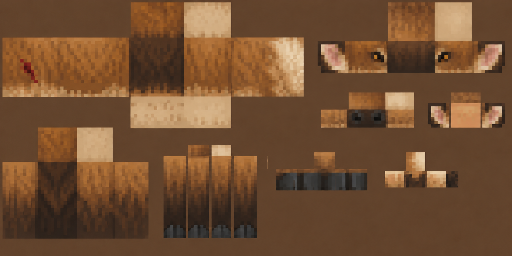
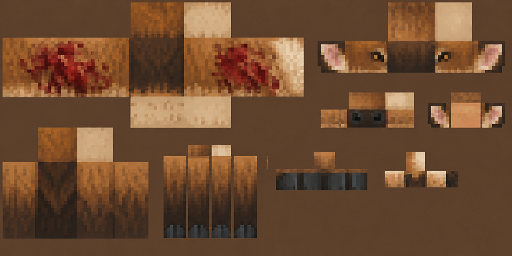
Make the crash wound visible and correct fan-room native bounds
Paint a clear abrasion on both elk flanks, switch the persistent wound at actual impact and repair earlier saved post-crash bodies. Extend the real crash/persistence regression without changing personal striker credit. Use native Vec3 room bounds for ladder construction and saved repair.

Changed region(s): [[0.0312, 0.1562, 0.2188, 0.375], [0.4062, 0.1562, 0.5625, 0.375]]

diff --git a/src/main/java/io/github/knaitoe/theoldesthouse/gametest/ElkFanTests.java b/src/main/java/io/github/knaitoe/theoldesthouse/gametest/ElkFanTests.java
@@ -27,7 +27,7 @@ public final class ElkFanTests {
         final GameTestHelper h;final ServerLevel l;final NativeTestChunks chunks=new NativeTestChunks();
         final BlockPos origin=new BlockPos(63500,80,63500),b;final HouseSavedData oldHouse;final LabyrinthData oldData;
         final List<ServerPlayer> players=new ArrayList<>();final List<Entity> extras=new ArrayList<>();
-        Fixture(GameTestHelper h){this.h=h;l=HouseTestLevel.get(h.getLevel().getServer(),HouseDimensions.INTERIOR);oldHouse=HouseSavedData.get(l.getServer());oldData=LabyrinthData.get(l.getServer());var house=new HouseSavedData();house.markSpawned(origin);var store=l.getServer().overworld().getDataStorage();store.set("the_oldest_house",house);store.set("the_oldest_house_labyrinth",new LabyrinthData());d().setBuilt(LabyrinthBuilder.VERSION,origin);b=LabyrinthPlaces.base(origin,LabyrinthPlace.ELK_FAN);chunks.hold(l,new AABB(b.offset(-12,-2,-30),b.offset(13,10,4)));LiteraryRooms.build(l,b,LabyrinthPlace.ELK_FAN);LabyrinthBuilder.registerDoors(d(),LabyrinthPlace.ELK_FAN,b);active=this;}
+        Fixture(GameTestHelper h){this.h=h;l=HouseTestLevel.get(h.getLevel().getServer(),HouseDimensions.INTERIOR);oldHouse=HouseSavedData.get(l.getServer());oldData=LabyrinthData.get(l.getServer());var house=new HouseSavedData();house.markSpawned(origin);var store=l.getServer().overworld().getDataStorage();store.set("the_oldest_house",house);store.set("the_oldest_house_labyrinth",new LabyrinthData());d().setBuilt(LabyrinthBuilder.VERSION,origin);b=LabyrinthPlaces.base(origin,LabyrinthPlace.ELK_FAN);chunks.hold(l,new AABB(Vec3.atLowerCornerOf(b.offset(-12,-2,-30)),Vec3.atLowerCornerOf(b.offset(13,10,4))));LiteraryRooms.build(l,b,LabyrinthPlace.ELK_FAN);LabyrinthBuilder.registerDoors(d(),LabyrinthPlace.ELK_FAN,b);active=this;}
         LabyrinthData d(){return LabyrinthData.get(l.getServer());}
         ServerPlayer player(String name){var p=NativeTestPlayers.survival(h,name);players.add(p);p.teleportTo(l,b.getX()+.5,b.getY(),b.getZ()-3.5,180,0);p.hasChangedDimension();p.setNoGravity(true);LiteraryVignettes.onArrive(p,LabyrinthPlace.ELK_FAN);return p;}
         void readSource(ServerPlayer p){var at=b.offset(LiteraryRooms.source(LabyrinthPlace.ELK_FAN));p.moveTo(at.getX()+.5,b.getY(),at.getZ()+2.5);p.lookAt(EntityAnchorArgument.Anchor.EYES,at.getCenter());var hit=l.clip(new ClipContext(p.getEyePosition(),p.getEyePosition().add(p.getLookAngle().scale(4.5)),ClipContext.Block.OUTLINE,ClipContext.Fluid.NONE,p));h.assertTrue(hit.getBlockPos().equals(at),"the original bedside paper is reached by a native ray");p.gameMode.useItemOn(p,l,ItemStack.EMPTY,InteractionHand.MAIN_HAND,hit);h.assertTrue(p.containerMenu instanceof LiteraryVignettes.Pages,"the original scene paper opens");var menu=(LiteraryVignettes.Pages)p.containerMenu;h.assertTrue(menu.clickMenuButton(p,101),"the real last source page is read");p.closeContainer();}

diff --git a/src/main/java/io/github/knaitoe/theoldesthouse/gametest/LiteraryTests.java b/src/main/java/io/github/knaitoe/theoldesthouse/gametest/LiteraryTests.java
@@ -392,9 +392,14 @@ p.teleportTo(f.out,family.getX()+.5,family.getY(),family.getZ()-3,180,0);p.hasCh
         }).thenIdle(75).thenExecute(()->{
             var world=LiteraryVignettes.shared(f.data(),place);
             h.assertTrue(world.contains("CrashAt")&&world.getInt("Alarm")>0&&RoadhouseBlock.is(l.getBlockState(b.offset(ElkLot.dent())),RoadhouseBlock.Kind.PU_DOOR_DENT),"a reader out in the lot brings it on: the truck is dented and its alarm going");
-            h.assertTrue(world.hasUUID("Elk")&&l.getEntity(world.getUUID("Elk")) instanceof LiteraryElk elk&&!elk.isInvisible(),"the elk is a real body in the lot");
+            h.assertTrue(world.hasUUID("Elk")&&l.getEntity(world.getUUID("Elk")) instanceof LiteraryElk elk&&!elk.isInvisible()&&elk.wounded(),"the native crash leaves a visible wound on the same real elk");
+            var elk=(LiteraryElk)l.getEntity(world.getUUID("Elk"));var saved=new CompoundTag();elk.saveWithoutId(saved);
+            h.assertTrue(saved.getBoolean("Wound")&&!f.own(p,place).getBoolean("ElkWounded"),"the crash wound persists without assigning a reader the separate act of striking it");
+            var legacy=saved.copy();legacy.putBoolean("Wound",false);elk.load(legacy);
+            h.assertTrue(!elk.wounded(),"an earlier saved post-crash body can still have the healthy flag");
         }).thenIdle(120).thenExecute(()->{
             h.assertTrue(f.own(p,place).getBoolean("ElkSeen"),"the reader it stood and looked at saw it");
+            var world=LiteraryVignettes.shared(f.data(),place);h.assertTrue(l.getEntity(world.getUUID("Elk")) instanceof LiteraryElk elk&&elk.wounded(),"the ongoing post-crash night restores the wound on that native saved body");
         }).thenIdle(200).thenExecute(()->{
             var world=LiteraryVignettes.shared(f.data(),place);
             for(var who:ElkLotNight.MEN)h.assertTrue(l.getEntity(world.getUUID(who.key())) instanceof LiteraryActor man&&!ElkLotNight.inBar(man.position(),b),who.name()+" has come out");

diff --git a/src/main/java/io/github/knaitoe/theoldesthouse/labyrinth/ElkLotNight.java b/src/main/java/io/github/knaitoe/theoldesthouse/labyrinth/ElkLotNight.java
@@ -186,6 +186,8 @@ public final class ElkLotNight {
     static void restElk(ServerLevel l,BlockPos b){var d=LabyrinthData.get(l.getServer());var w=LiteraryVignettes.shared(d,PLACE);var e=elk(l,w);if(e!=null)hide(l,b,e);}
     private static void elk(ServerLevel l,BlockPos b,CompoundTag w,int t,List<ServerPlayer> here){
         var e=elk(l,w);if(e==null)return;e.setInvisible(false);e.setNoGravity(true);int stage=w.getInt("ElkStage"),leg=w.getInt("ElkLeg");
+        // Earlier saved nights may already be beyond impact on an unwounded body.
+        if(stage>=3&&!e.wounded())e.wound();
         switch(stage){
             case 1->{ // Over the fence: an arc from the dark beyond the road.
                 double f=Math.min(1,t/(double)LEAP);var at=rel(b,24.5+(21.5-24.5)*f,.5+(-2.5-.5)*f);e.moveTo(at.x,at.y+1.6*Math.sin(Math.PI*f),at.z,90,0);turn(e,120);
@@ -216,6 +218,7 @@ public final class ElkLotNight {
         }
     }
     private static void impact(ServerLevel l,BlockPos b,CompoundTag w,LiteraryElk e,List<ServerPlayer> here){
+        e.wound();
         var at=b.offset(ElkLot.dent());var st=l.getBlockState(at);if(RoadhouseBlock.is(st,Kind.PU_DOOR))l.setBlock(at,st.setValue(RoadhouseBlock.KIND,Kind.PU_DOOR_DENT),Block.UPDATE_CLIENTS);
         l.playSound(null,at,LiteraryRegistry.LOT_CRASH.get(),SoundSource.BLOCKS,2.5F,1F);l.playSound(null,at,SoundEvents.GLASS_BREAK,SoundSource.BLOCKS,1.2F,.8F);
         l.sendParticles(ParticleTypes.CRIT,at.getX()+.2,at.getY()+1,at.getZ()+.5,18,.3,.4,.4,.2);l.sendParticles(ParticleTypes.POOF,at.getX()+.2,at.getY()+.6,at.getZ()+.5,8,.3,.3,.3,.02);

diff --git a/src/main/java/io/github/knaitoe/theoldesthouse/labyrinth/ElkFanRoom.java b/src/main/java/io/github/knaitoe/theoldesthouse/labyrinth/ElkFanRoom.java
@@ -34,7 +34,7 @@ public final class ElkFanRoom {
                 &&Math.abs(p.getZ()-b.getZ()+16.5)<1.2&&standing(p.serverLevel(),b);
     }
     public static boolean repair(ServerLevel l,BlockPos b){
-        var area=new AABB(b.offset(-1,-1,-21),b.offset(2,9,-12));
+        var area=new AABB(net.minecraft.world.phys.Vec3.atLowerCornerOf(b.offset(-1,-1,-21)),net.minecraft.world.phys.Vec3.atLowerCornerOf(b.offset(2,9,-12)));
         if(!ScenePolish.loaded(l,area,b)||l.players().stream().anyMatch(p->area.inflate(24).intersects(p.getCamera().getBoundingBox()))
                 ||!l.getEntitiesOfClass(Entity.class,area,e->e.isAlive()).isEmpty())return false;
         var cells=new LinkedHashMap<BlockPos,BlockState>();

diff --git a/docs/ELK_FAN_0_4_80.md b/docs/ELK_FAN_0_4_80.md
@@ -1,6 +1,8 @@
 # Elk and fan-room repair — 0.4.80
 
-The cow elk now has tawny clustered fur, a dark neck, a cream underside and rump, two mapped eyes, inner ears, a dark muzzle and cloven hooves. Its native cube nets no longer overlap. Healthy and wounded 512×256 atlases use the same logical 128×64 mesh; the carcasses use the corrected mapping too. Original generated surface art is in `art/elk_surface_0480.png` and `art/elk_surface_wounded_0480.png`; `tools/bake_elk_atlas.sh` fits those surfaces to the actual faces with nearest-neighbour sampling. The prompts requested a vanilla-compatible antlerless cow-elk UV atlas, then a restrained flank injury with the remaining surfaces preserved. Both source images were created with the built-in image-generation tool.
+The cow elk now has tawny clustered fur, a dark neck, a cream underside and rump, two mapped eyes, inner ears, a dark muzzle and cloven hooves. Its native cube nets no longer overlap. Healthy and wounded 512×256 atlases use the same logical 128×64 mesh; the carcasses use the corrected mapping too. Original generated surface art is in `art/elk_surface_0480.png` and `art/elk_surface_wounded_0480.png`; `tools/bake_elk_atlas.sh` fits those surfaces to the actual faces with nearest-neighbour sampling. The prompts requested a vanilla-compatible antlerless cow-elk UV atlas. The owner then requested a more apparent crash injury: the wounded surface now has a substantial red/maroon abrasion and blood-matted fur on both broad side faces, contained within the native seams. Both source images were created with the built-in image-generation tool.
+
+The real impact now sets the persistent native wound flag immediately. Existing saved nights beyond impact acquire it on that same elk when loaded; its UUID, health and reader accounts are preserved. The separate personal act of striking the elk remains private. The native crash case checks impact, persistence and an earlier healthy saved post-crash body.
 
 The short wall ladder is replaced by a four-legged A-frame, nine climbing treads, spreader braces and a top working platform at 5.25 blocks. An open centre preserves the view below the fan. Oak, iron catches, ribbed treads, rubber feet and the fan's lacquered blades/brass motor have custom pixel textures. Thirty native parts use the same authored boxes for the visible model and collision; the block uses native ladder climbing. The existing ceiling-mounted fan remains at its saved address. A real climb and ordinary click now allow its repair without building a tower first; earlier placed platforms remain a supported route.
 
